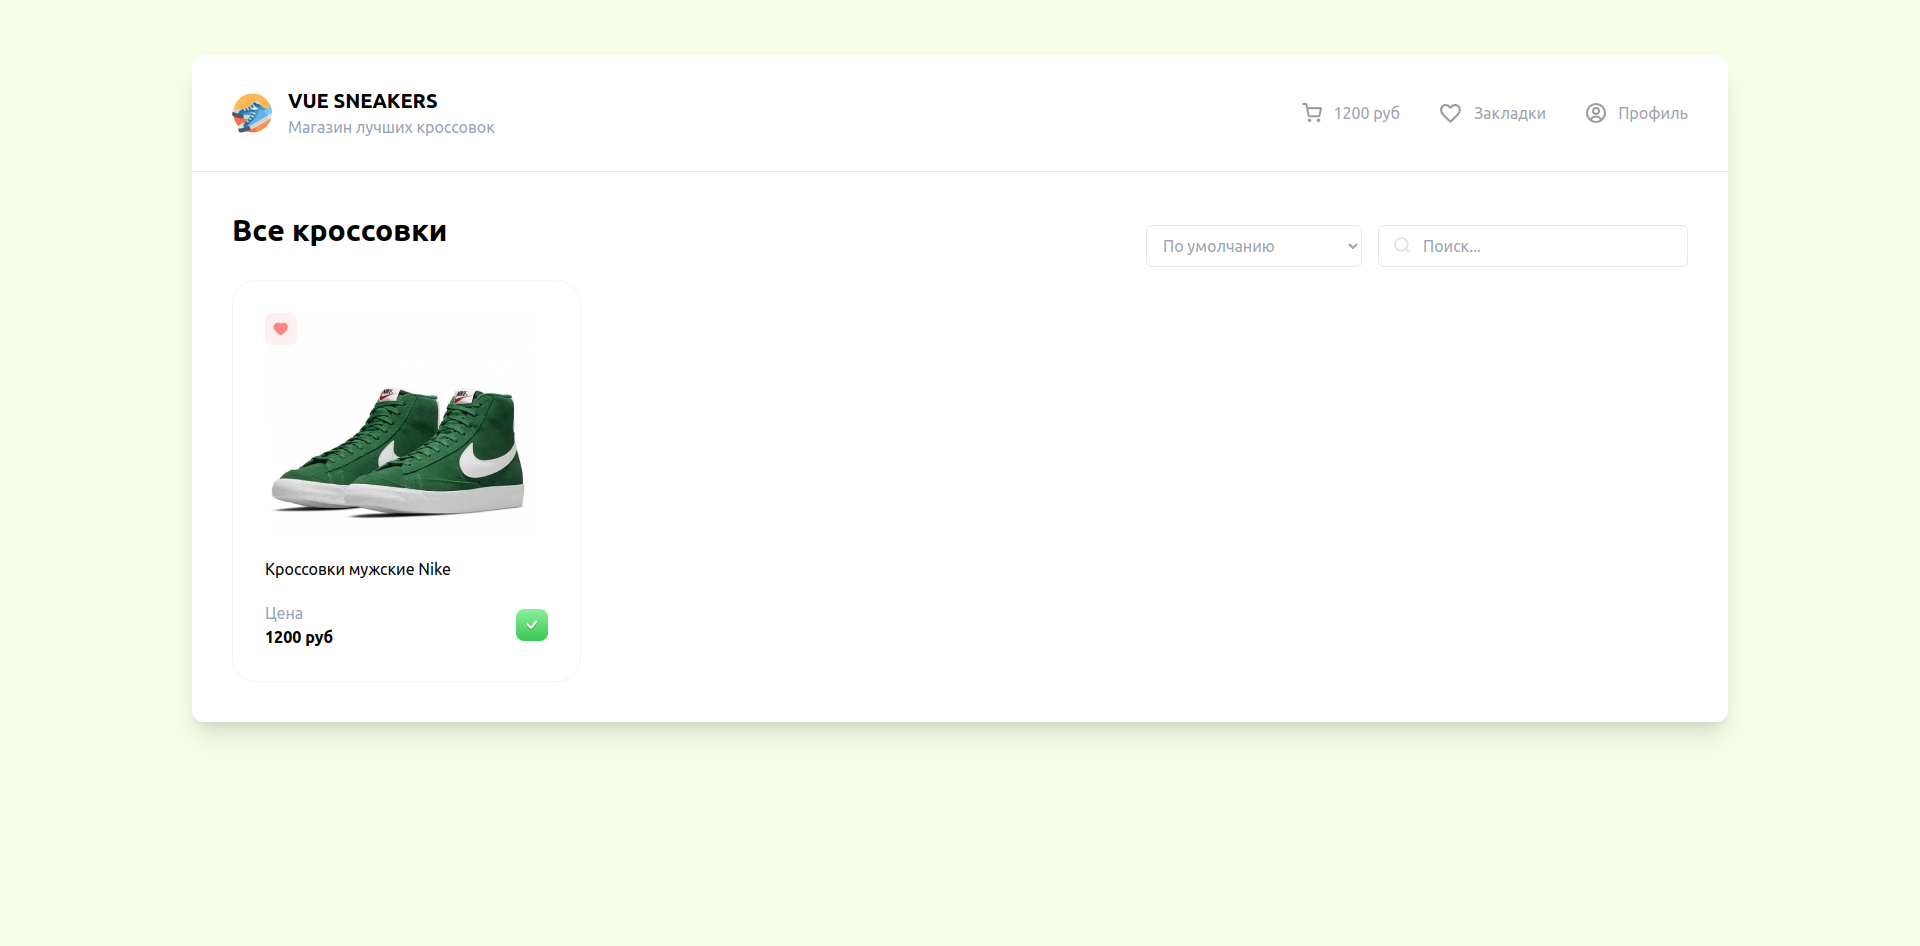
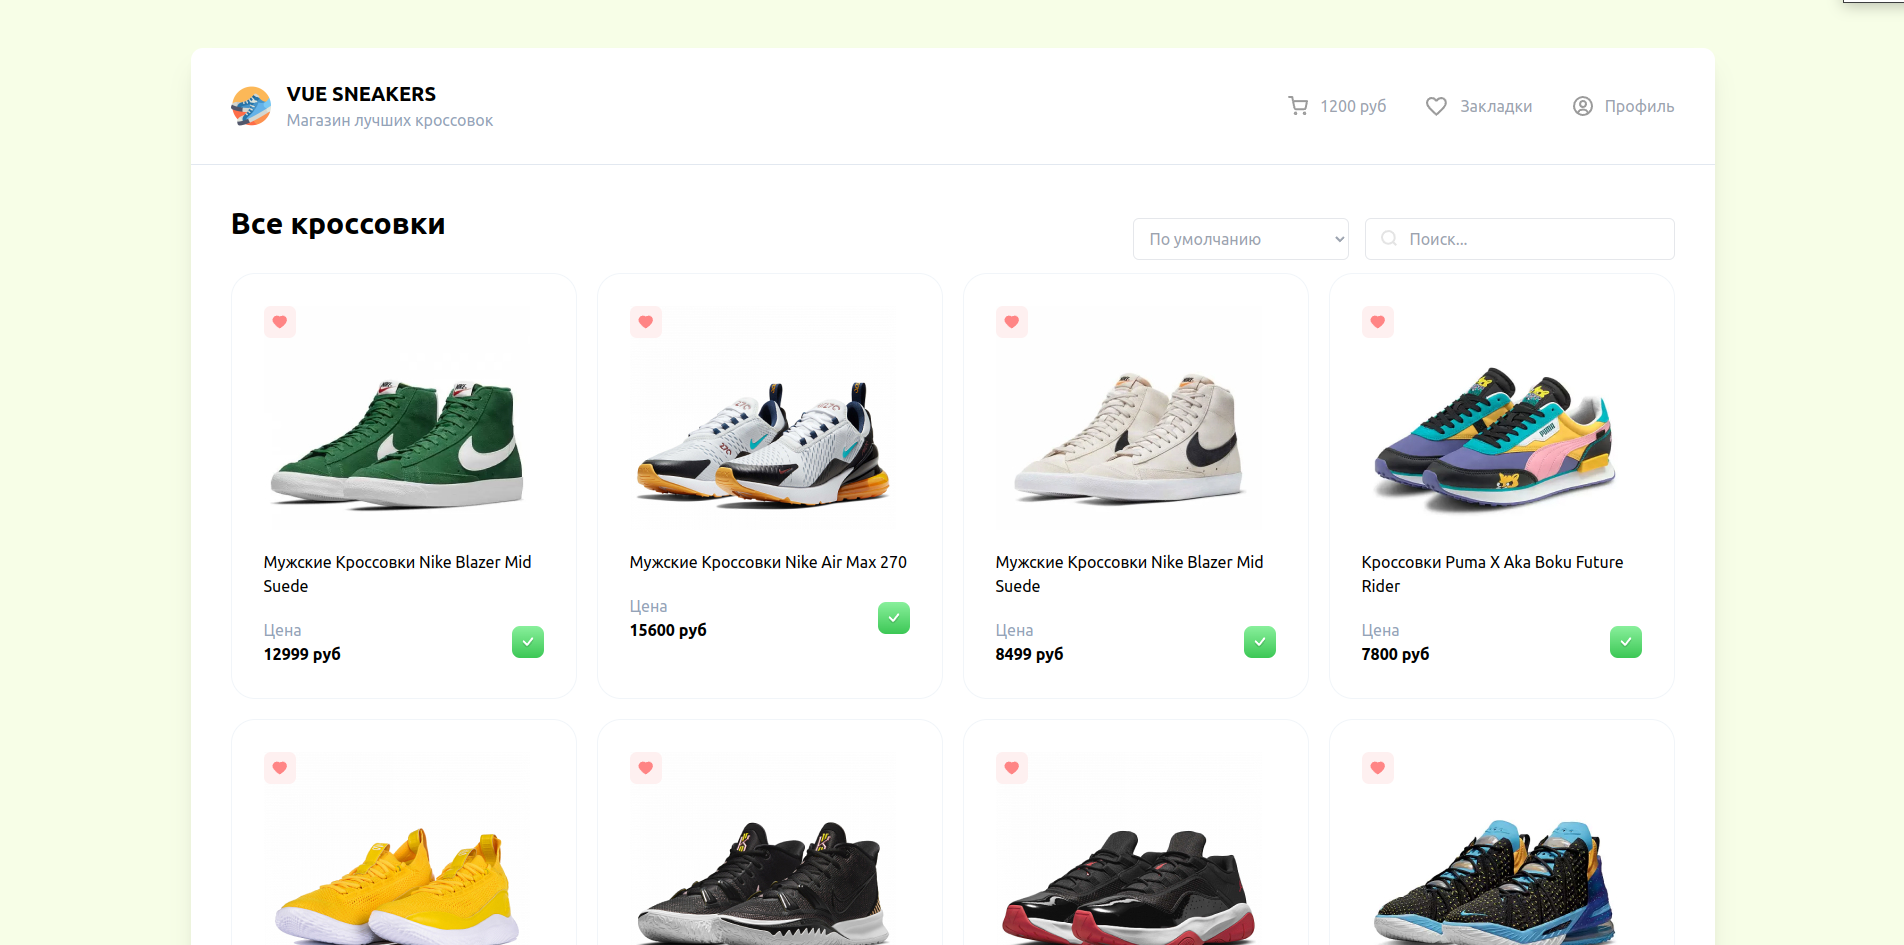
update Readme

diff --git a/src/App.vue b/src/App.vue
@@ -1,7 +1,22 @@
 <script setup>
+import { onMounted, ref } from 'vue'
 import Header from './components/Header.vue'
 import CardList from './components/CardList.vue'
 import Drawer from './components/Drawer.vue'
+import axios from 'axios'
+
+const items = ref([])
+
+
+onMounted(() => {
+  axios.get('https://9f380676a5fecf90.mokky.dev/items')
+    .then((response) => items.value = response.data)
+
+})
+
+
+console.log(items);
+
 
 </script>
 
@@ -10,12 +25,9 @@ import Drawer from './components/Drawer.vue'
   <div class="bg-white w-4/5 m-auto rounded-xl shadow-xl mt-14">
     <Header />
 
-
-
     <div class="p-10">
       <div class="flex justify-between items-center">
         <h2 class="text-3xl font-bold mb-8">Все кроссовки</h2>
-
 
         <div class="flex gap-4">
           <select class="py-2 px-3 border rounded-md bg-white text-gray-400">
@@ -24,23 +36,20 @@ import Drawer from './components/Drawer.vue'
             <option value="">По цене(убыванию)</option>
           </select>
 
-
           <div class="relative">
-            <img src="/search.svg" class="absolute left-4 top-3">
+            <img src="/search.svg" class="absolute left-4 top-3" />
             <input class="border rounded-md py-2 pl-11 pr-4 outline-none focus:border-gray-400" type="text"
-              placeholder="Поиск...">
+              placeholder="Поиск..." />
           </div>
         </div>
-
-
       </div>
 
-      <CardList />
+
+      <div class="mt-10">
+        <CardList :items="items" />
+      </div>
+
     </div>
-
-
-
-
   </div>
 </template>
 

diff --git a/src/components/CardList.vue b/src/components/CardList.vue
@@ -1,24 +1,31 @@
 <script setup>
+
 import Card from './Card.vue'
 
 defineProps({
-  items: Array,
-
-
-})
+  items: Array
+});
 
 const onClickAdd = () => {
   alert('В корзине')
-}
+};
 
 const onClickFavorite = () => {
   alert('В избранном')
-}
+};
 </script>
 
 <template>
   <div class="grid grid-cols-4 gap-5">
-    <Card :image-url="'/sneakers/sneakers-1.jpg'" :price="1200" :title="'Кроссовки мужские Nike'" :is-favorite="true"
-      :is-added="true" :onClickAdd="onClickAdd" :onClickFavorite="onClickFavorite" />
+    <Card
+    v-for="item in items" :key="item.id"
+      :image-url="item.imageUrl"
+      :price= item.price
+      :title= item.title
+      :is-favorite="true"
+      :is-added="true"
+      :onClickAdd="onClickAdd"
+      :onClickFavorite="onClickFavorite"
+    />
   </div>
 </template>

diff --git a/src/components/Drawer.vue b/src/components/Drawer.vue
@@ -1,6 +1,6 @@
 <script setup>
 import DrawerHead from './DrawerHead.vue'
-import CartItemListVue from './CartItemList.vue'
+import CartItemList from './CartItemList.vue'
 </script>
 
 <template>
@@ -8,7 +8,7 @@ import CartItemListVue from './CartItemList.vue'
   <div class="bg-white w-96 h-full fixed right-0 top-0 z-20 p-8">
     <DrawerHead />
 
-    <CartItemListVue />
+    <CartItemList />
 
     <div class="flex flex-col flex-1 justify-between mt-5">
       <div>

diff --git a/src/components/DrawerHead.vue b/src/components/DrawerHead.vue
@@ -5,7 +5,8 @@
 <template>
   <h2 class="text-2xl font-bold mb-10 flex items-center gap-5">
     <svg
-      class="rotate-180 hover:-translate-x-1 opacity-30 hover:opacity-100 transition cursor-pointer"
+      class="rotate-180 hover:-translate-x-1 opacity-30 hover:opacity-100 
+      transition cursor-pointer"
       width="16"
       height="14"
       viewBox="0 0 16 14"
